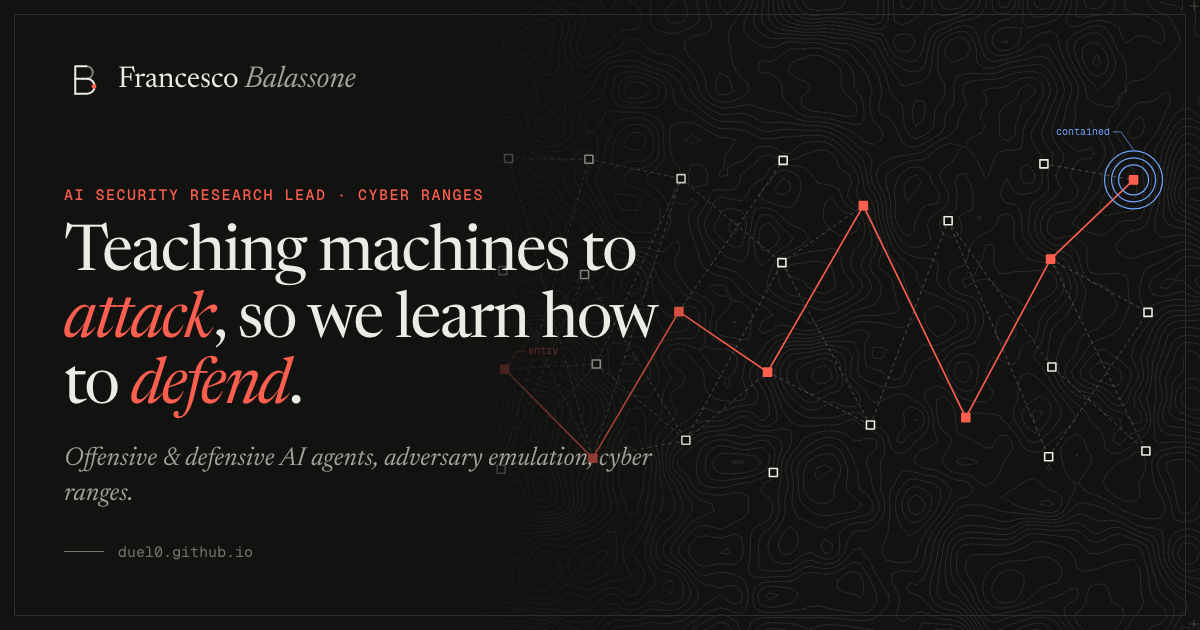
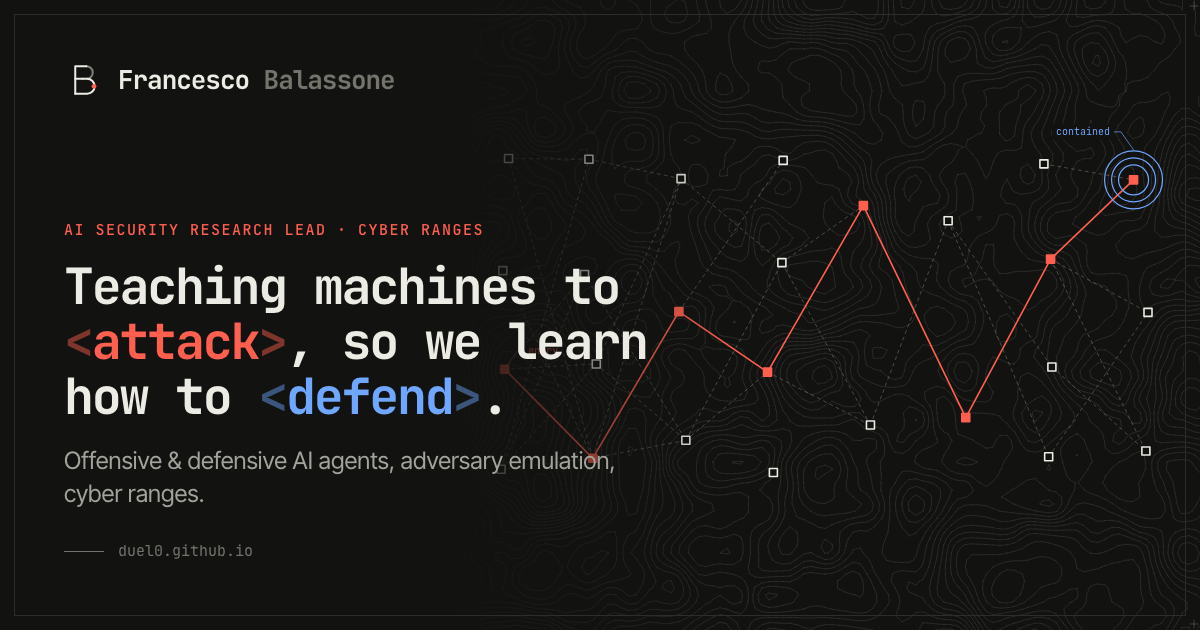
New type system: JetBrains Mono + Inter Tight
Replace Newsreader/Geist (too close to luijait.es) with JetBrains Mono
for display and Inter Tight for text. No italics: the headline accents
become <attack> (red) and <defend> (blue), section titles get a "## "
prefix, leads move to the text face. Canvas labels and the OG card
follow; site card regenerated.

diff --git a/assets/style.css b/assets/style.css
@@ -22,9 +22,9 @@
   --term-blue: #7fb3ff;
   --term-green: #8ad19b;
 
-  --serif: "Newsreader", Georgia, "Times New Roman", serif;
-  --sans: "Geist", system-ui, -apple-system, "Segoe UI", sans-serif;
-  --mono: "Geist Mono", ui-monospace, "SFMono-Regular", Menlo, monospace;
+  --serif: "JetBrains Mono", ui-monospace, Menlo, monospace;   /* display face (headings) */
+  --sans: "Inter Tight", system-ui, -apple-system, "Segoe UI", sans-serif;
+  --mono: "JetBrains Mono", ui-monospace, "SFMono-Regular", Menlo, monospace;
 
   --max: 1180px;
   --gutter: clamp(16px, 4vw, 40px);
@@ -90,7 +90,7 @@ p { margin: 0 0 1em; }
 .mono { font-family: var(--mono); }
 .wrap { width: 100%; max-width: var(--max); margin-inline: auto; padding-inline: var(--gutter); }
 .display { font-family: var(--serif); letter-spacing: -0.02em; }
-.display em, .section-title em { font-style: italic; color: var(--accent); }
+.display em, .section-title em { font-style: normal; color: var(--accent); }
 
 kbd {
   font: 500 0.72em/1 var(--mono);
@@ -170,7 +170,7 @@ kbd {
   letter-spacing: -0.03em;
   margin-bottom: 28px;
 }
-.hero h1 em { font-style: italic; color: var(--accent); }
+.hero h1 em { font-style: normal; color: var(--accent); }
 .lede { font-size: clamp(17px, 1.6vw, 19px); color: var(--ink-2); max-width: 34em; }
 .actions { display: flex; flex-wrap: wrap; gap: 12px; margin-top: 28px; }
 .btn {
@@ -328,7 +328,7 @@ kbd {
 .about-lead { font: 400 clamp(22px, 2.4vw, 28px)/1.35 var(--serif) !important; color: var(--ink) !important; letter-spacing: -0.01em; }
 .pull {
   margin: 32px 0 0; padding: 4px 0 4px 20px; border-left: 2px solid var(--accent);
-  font: italic 400 clamp(20px, 2.2vw, 24px)/1.35 var(--serif); color: var(--ink); max-width: 28em;
+  font: 400 clamp(20px, 2.2vw, 24px)/1.35 var(--serif); color: var(--ink); max-width: 28em;
 }
 .timeline { list-style: none; margin: 0; padding: 0; border-top: 1px solid var(--line); }
 .timeline li { display: grid; grid-template-columns: 80px minmax(0, 1fr); gap: 12px; padding: 14px 0; border-bottom: 1px solid var(--line); }
@@ -481,7 +481,7 @@ kbd {
 .stages button.is-def::after { background: var(--blue); }
 .scene-caption {
   margin: 12px 0 clamp(28px, 4vw, 44px); min-height: 1.6em;
-  font: italic 400 clamp(17px, 1.7vw, 20px)/1.4 var(--serif); color: var(--ink-2);
+  font: 400 clamp(17px, 1.7vw, 20px)/1.4 var(--serif); color: var(--ink-2);
 }
 .scene-caption::before { content: "▸ "; font-style: normal; color: var(--accent); }
 @media (max-width: 700px) {
@@ -498,7 +498,7 @@ kbd {
    ══════════════════════════════════════════════════════════════ */
 .kicker { margin: 0 0 10px; font-size: 11px; letter-spacing: .1em; text-transform: uppercase; color: var(--accent); }
 .badge { font-size: 10px; letter-spacing: .05em; text-transform: uppercase; color: var(--accent); border: 1px solid currentColor; border-radius: 999px; padding: 2px 7px 1px; }
-.posts-empty { color: var(--ink-3); font: italic 400 20px/1.4 var(--serif); }
+.posts-empty { color: var(--ink-3); font: 400 20px/1.4 var(--serif); }
 .post-meta { margin: 0; font-size: 11.5px; color: var(--ink-3); }
 
 /* Feed: featured card + rows with thumbnails */
@@ -531,7 +531,7 @@ kbd {
 /* Blog index */
 .blog-hero { padding-top: clamp(48px, 8vw, 96px); padding-bottom: clamp(32px, 5vw, 56px); border-bottom: 1px solid var(--ink); margin-bottom: 36px; }
 .blog-h1 { font: 400 clamp(56px, 10vw, 128px)/0.95 var(--serif); letter-spacing: -0.04em; margin: 0 0 18px; }
-.blog-sub { font: italic 400 clamp(19px, 2vw, 23px)/1.4 var(--serif); color: var(--ink-2); max-width: 30em; margin: 0 0 24px; }
+.blog-sub { font: 400 clamp(19px, 2vw, 23px)/1.4 var(--serif); color: var(--ink-2); max-width: 30em; margin: 0 0 24px; }
 .blog-feed { padding-bottom: clamp(56px, 8vw, 100px); }
 
 /* ── Article ──────────────────────────────────────────────── */
@@ -541,7 +541,7 @@ kbd {
 .back { display: inline-block; font-size: 12px; color: var(--ink-3); text-decoration: none; margin-bottom: 28px; }
 .back:hover { color: var(--accent); }
 .post-h1 { font: 400 clamp(38px, 6vw, 64px)/1.03 var(--serif); letter-spacing: -0.032em; margin: 0 0 16px; }
-.post-lede { font: italic 400 clamp(20px, 2.2vw, 24px)/1.4 var(--serif); color: var(--ink-2); margin: 0 0 28px; }
+.post-lede { font: 400 clamp(20px, 2.2vw, 24px)/1.4 var(--serif); color: var(--ink-2); margin: 0 0 28px; }
 .byline {
   display: flex; flex-wrap: wrap; align-items: center; gap: 12px 14px;
   padding: 14px 0; border-top: 1px solid var(--line); border-bottom: 1px solid var(--line);
@@ -612,14 +612,14 @@ kbd {
 .prose li.done { color: var(--ink-3); text-decoration: line-through; text-decoration-color: var(--ink-3); }
 
 /* Quotes */
-.prose blockquote { margin-inline: 0; padding: 2px 0 2px 22px; border-left: 2px solid var(--ink); color: var(--ink); font: italic 400 21px/1.55 var(--serif); }
+.prose blockquote { margin-inline: 0; padding: 2px 0 2px 22px; border-left: 2px solid var(--ink); color: var(--ink); font: 400 21px/1.55 var(--serif); }
 .prose blockquote > * + * { margin-top: .8em; }
 .pullquote { margin: 2em 0 !important; text-align: center; padding: 28px 0; border-top: 1px solid var(--line); border-bottom: 1px solid var(--line); position: relative; }
 .pullquote::before {
   content: "“"; position: absolute; top: -26px; left: 50%; transform: translateX(-50%);
   padding: 0 14px; background: var(--paper); color: var(--accent); font: 400 56px/1 var(--serif);
 }
-.pullquote blockquote { border: 0; padding: 0; margin: 0; font: italic 400 clamp(25px, 3vw, 32px)/1.3 var(--serif); letter-spacing: -0.015em; color: var(--ink); }
+.pullquote blockquote { border: 0; padding: 0; margin: 0; font: 400 clamp(25px, 3vw, 32px)/1.3 var(--serif); letter-spacing: -0.015em; color: var(--ink); }
 .pullquote figcaption { margin-top: 16px; font-size: 11.5px; letter-spacing: .06em; color: var(--ink-3); text-transform: uppercase; }
 
 /* Callouts — technical-drawing annotation: tag on the border, hatched edge, registration mark */
@@ -750,7 +750,7 @@ kbd {
 .post-foot { margin-top: 64px; }
 .end-card { text-align: center; padding: 8px 0 36px; border-bottom: 1px solid var(--line); }
 .end-card .ornament { margin: 0 0 28px !important; }
-.end-title { font: italic 400 34px/1.1 var(--serif); letter-spacing: -0.02em; margin: 0 0 10px; }
+.end-title { font: 400 34px/1.1 var(--serif); letter-spacing: -0.02em; margin: 0 0 10px; }
 .end-sub { color: var(--ink-2); margin: 0 auto 22px; max-width: 28em; }
 .end-actions { display: flex; flex-wrap: wrap; justify-content: center; align-items: center; gap: 12px; }
 .end-actions .share { margin-left: 0; }
@@ -1110,3 +1110,58 @@ html[data-alert] .section-title, html[data-alert] .hero h1 { animation: alertSha
 .fetch.will-reveal .fetch-info > div, .fetch.will-reveal .fetch-art { opacity: 0; transform: translateX(-4px); }
 .fetch.is-in .fetch-info > div, .fetch.is-in .fetch-art { opacity: 1; transform: none; transition: opacity .35s ease, transform .35s ease; transition-delay: calc(var(--i, 0) * 70ms); }
 @media (max-width: 520px) { .fetch-body { grid-template-columns: minmax(0, 1fr); } .fetch-art { display: none; } }
+
+/* ══════════════════════════════════════════════════════════════
+   TYPE SYSTEM — JetBrains Mono (display) + Inter Tight (text)
+   Mono runs wide, so display sizes step down; no italics anywhere.
+   ══════════════════════════════════════════════════════════════ */
+body { font-size: 16.5px; }
+em, i, .display em, .section-title em { font-style: normal; }
+
+/* Headline: attack/defend as tags */
+.hero h1 { font: 700 clamp(32px, 4.6vw, 56px)/1.08 var(--serif); letter-spacing: -0.045em; }
+.hero h1 em { color: var(--accent); }
+.hero h1 em.def { color: var(--blue); }
+.hero h1 em::before { content: "<"; opacity: .45; }
+.hero h1 em::after { content: ">"; opacity: .45; }
+.hero-id { font: 700 clamp(24px, 2.7vw, 38px)/1 var(--serif); letter-spacing: -0.04em; }
+.hero-name i, .brand-name i { color: var(--ink-3); }
+.brand-name { font: 700 15px/1 var(--serif); letter-spacing: -0.03em; }
+
+/* Section titles: markdown heading */
+.section-title { font: 700 clamp(26px, 3.4vw, 40px)/1 var(--serif); letter-spacing: -0.04em; }
+.section-title::before { content: "## "; color: var(--ink-3); font-weight: 400; }
+.blog-h1 { font: 700 clamp(48px, 8vw, 96px)/0.95 var(--serif); letter-spacing: -0.05em; }
+.blog-h1::before { content: "# "; color: var(--ink-3); font-weight: 400; }
+
+/* Card / list titles */
+.card h3 { font: 700 19px/1.25 var(--serif); letter-spacing: -0.03em; }
+.featured-title { font: 700 clamp(20px, 2.3vw, 26px)/1.25 var(--serif); letter-spacing: -0.03em; }
+.pub-title { font: 500 clamp(15.5px, 1.5vw, 17px)/1.4 var(--serif); letter-spacing: -0.02em; }
+.feature-title { font: 700 clamp(22px, 2.6vw, 30px)/1.15 var(--serif); letter-spacing: -0.035em; }
+.row-title { font: 700 clamp(17px, 1.8vw, 20px)/1.3 var(--serif); letter-spacing: -0.03em; }
+.post-h1 { font: 700 clamp(30px, 4.6vw, 48px)/1.1 var(--serif); letter-spacing: -0.045em; }
+.nav-card b { font: 700 14px/1.35 var(--serif); letter-spacing: -0.02em; }
+.stat-tiles b, .stats dd { font-family: var(--serif); font-weight: 700; letter-spacing: -0.04em; }
+.team-stats b { font-family: "Napoli", var(--serif) !important; font-weight: 400; }
+.links a { font: 700 clamp(18px, 2vw, 22px)/1.2 var(--serif); letter-spacing: -0.03em; }
+.contact-line { font: 700 clamp(28px, 4.2vw, 50px)/1.1 var(--serif); letter-spacing: -0.045em; }
+.contact-line em { color: var(--accent); }
+
+/* Leads and quotes: text face, no italics */
+.about-lead, .team-lead, .lab-lead { font: 500 clamp(19px, 1.9vw, 22px)/1.45 var(--sans) !important; letter-spacing: -0.01em; }
+.lede, .scene-caption, .post-lede, .blog-sub, .feature-desc { font-style: normal; }
+.scene-caption { font: 400 clamp(15px, 1.4vw, 17px)/1.5 var(--sans); }
+.post-lede, .blog-sub { font: 400 clamp(17px, 1.7vw, 20px)/1.5 var(--sans); }
+.pull { font: 500 clamp(17px, 1.8vw, 20px)/1.45 var(--mono); }
+.pull::before { content: "> "; color: var(--accent); }
+.pullquote blockquote { font: 700 clamp(20px, 2.4vw, 26px)/1.35 var(--serif); letter-spacing: -0.03em; }
+.pullquote::before { font-family: var(--serif); }
+.prose { font-size: 17.5px; }
+.prose h2 { font: 700 clamp(22px, 2.6vw, 27px)/1.25 var(--serif); letter-spacing: -0.035em; }
+.prose h3 { font: 700 19px/1.3 var(--serif); letter-spacing: -0.025em; }
+.prose blockquote { font: 400 18px/1.6 var(--sans); }
+.callout-title { font: 700 16px/1.35 var(--serif) !important; letter-spacing: -0.02em; }
+.end-title { font: 700 26px/1.15 var(--serif); letter-spacing: -0.04em; }
+.posts-empty { font: 400 16px/1.5 var(--mono); }
+.lab-dark { letter-spacing: 0; }

diff --git a/templates/og.html b/templates/og.html
@@ -2,7 +2,7 @@
 <html lang="en" data-theme="dark" data-no-bg>
 <head>
   <meta charset="utf-8">
-  <link href="https://fonts.googleapis.com/css2?family=Geist:wght@400;500;600&family=Geist+Mono:wght@400;500&family=Newsreader:ital,opsz,wght@0,6..72,400;0,6..72,500;1,6..72,400;1,6..72,500&display=block" rel="stylesheet">
+  <link href="https://fonts.googleapis.com/css2?family=Inter+Tight:ital,wght@0,400;0,500;0,600;1,400&family=JetBrains+Mono:wght@400;500;700&display=swap" rel="stylesheet">
   <link rel="stylesheet" href="{{root}}assets/style.css">
   <style>
     html, body { margin: 0; width: 1200px; height: 630px; overflow: hidden; background: var(--paper); }
@@ -15,12 +15,12 @@
     .og-brand { display: flex; align-items: center; gap: 14px; }
     .og-brand svg { width: 40px; height: 40px; fill: none; stroke: var(--ink); stroke-width: 1.6; stroke-linecap: round; stroke-linejoin: round; overflow: visible; }
     .og-brand .dim { opacity: .5; } .og-brand .node { fill: var(--accent); stroke: none; }
-    .og-brand span { font: 400 30px/1 var(--serif); color: var(--ink); letter-spacing: -0.01em; }
-    .og-brand i { color: var(--ink-2); }
+    .og-brand span { font: 700 26px/1 var(--serif); color: var(--ink); letter-spacing: -0.04em; }
+    .og-brand i { color: var(--ink-3); font-style: normal; }
     .og-kicker { margin: auto 0 18px; font: 500 15px/1.3 var(--mono); letter-spacing: .1em; text-transform: uppercase; color: var(--accent); }
-    .og-title { margin: 0; font: 400 64px/1.04 var(--serif); letter-spacing: -0.03em; color: var(--ink); }
-    .og-title em { color: var(--accent); }
-    .og-desc { margin: 20px 0 0; font: italic 400 26px/1.35 var(--serif); color: var(--ink-2); }
+    .og-title { margin: 0; font: 700 50px/1.1 var(--serif); letter-spacing: -0.045em; color: var(--ink); }
+    .og-title em { color: var(--accent); font-style: normal; } .og-title em::before { content: '<'; opacity: .45; } .og-title em::after { content: '>'; opacity: .45; } .og-title em + em, .og-title em.def { color: var(--blue); }
+    .og-desc { margin: 20px 0 0; font: 400 24px/1.4 var(--sans); color: var(--ink-2); }
     .og-foot { margin-top: 30px; display: flex; align-items: center; gap: 14px; font: 15px var(--mono); color: var(--ink-3); }
     .og-foot b { width: 40px; height: 1px; background: var(--ink-3); }
     .og::after { content: ""; position: absolute; inset: 14px; border: 1px solid var(--line); pointer-events: none; }

diff --git a/index.html b/index.html
@@ -21,7 +21,7 @@
 
   <link rel="preconnect" href="https://fonts.googleapis.com">
   <link rel="preconnect" href="https://fonts.gstatic.com" crossorigin>
-  <link href="https://fonts.googleapis.com/css2?family=Geist:wght@400;500;600&family=Geist+Mono:wght@400;500&family=Newsreader:ital,opsz,wght@0,6..72,400;0,6..72,500;1,6..72,400;1,6..72,500&display=swap" rel="stylesheet">
+  <link href="https://fonts.googleapis.com/css2?family=Inter+Tight:ital,wght@0,400;0,500;0,600;1,400&family=JetBrains+Mono:wght@400;500;700&display=swap" rel="stylesheet">
   <link rel="stylesheet" href="assets/style.css">
 
   <script>
@@ -90,7 +90,7 @@
           <p class="eyebrow mono">AI Security Research Lead @ CYBER RANGES · PhD @ Federico II</p>
           <h1 class="display">
             Teaching machines to <em>attack</em>,<br>
-            so we learn how to <em>defend</em>.
+            so we learn how to <em class="def">defend</em>.
           </h1>
         </div>
         <div class="hero-side">

diff --git a/templates/layout.html b/templates/layout.html
@@ -22,7 +22,7 @@
 
   <link rel="preconnect" href="https://fonts.googleapis.com">
   <link rel="preconnect" href="https://fonts.gstatic.com" crossorigin>
-  <link href="https://fonts.googleapis.com/css2?family=Geist:wght@400;500;600&family=Geist+Mono:wght@400;500&family=Newsreader:ital,opsz,wght@0,6..72,400;0,6..72,500;1,6..72,400;1,6..72,500&display=swap" rel="stylesheet">
+  <link href="https://fonts.googleapis.com/css2?family=Inter+Tight:ital,wght@0,400;0,500;0,600;1,400&family=JetBrains+Mono:wght@400;500;700&display=swap" rel="stylesheet">
   <link rel="stylesheet" href="{{root}}assets/style.css">
   <script>
     // Arriving through a cross-document view transition: draw covers complete so the morph lands on a finished picture.

diff --git a/assets/graphics.js b/assets/graphics.js
@@ -10,7 +10,7 @@
   'use strict';
 
   const reduceMotion = window.matchMedia('(prefers-reduced-motion: reduce)').matches;
-  const MONO = '"Geist Mono", ui-monospace, Menlo, monospace';
+  const MONO = '"JetBrains Mono", ui-monospace, Menlo, monospace';
 
   /* ── Theme colors (re-read on theme change) ───────────────── */
   let C = {};
